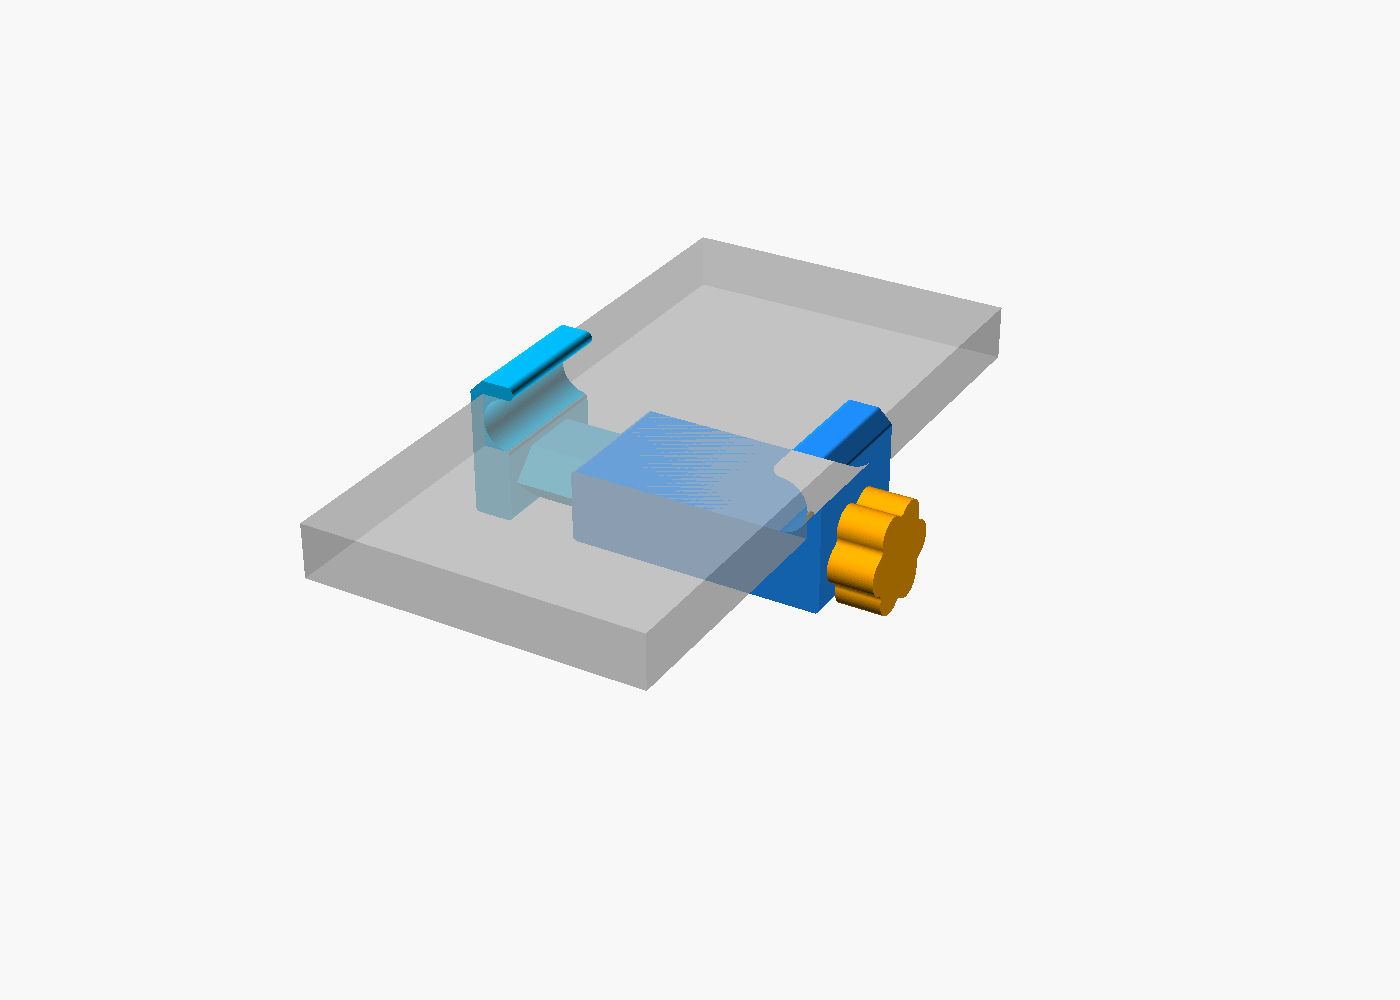
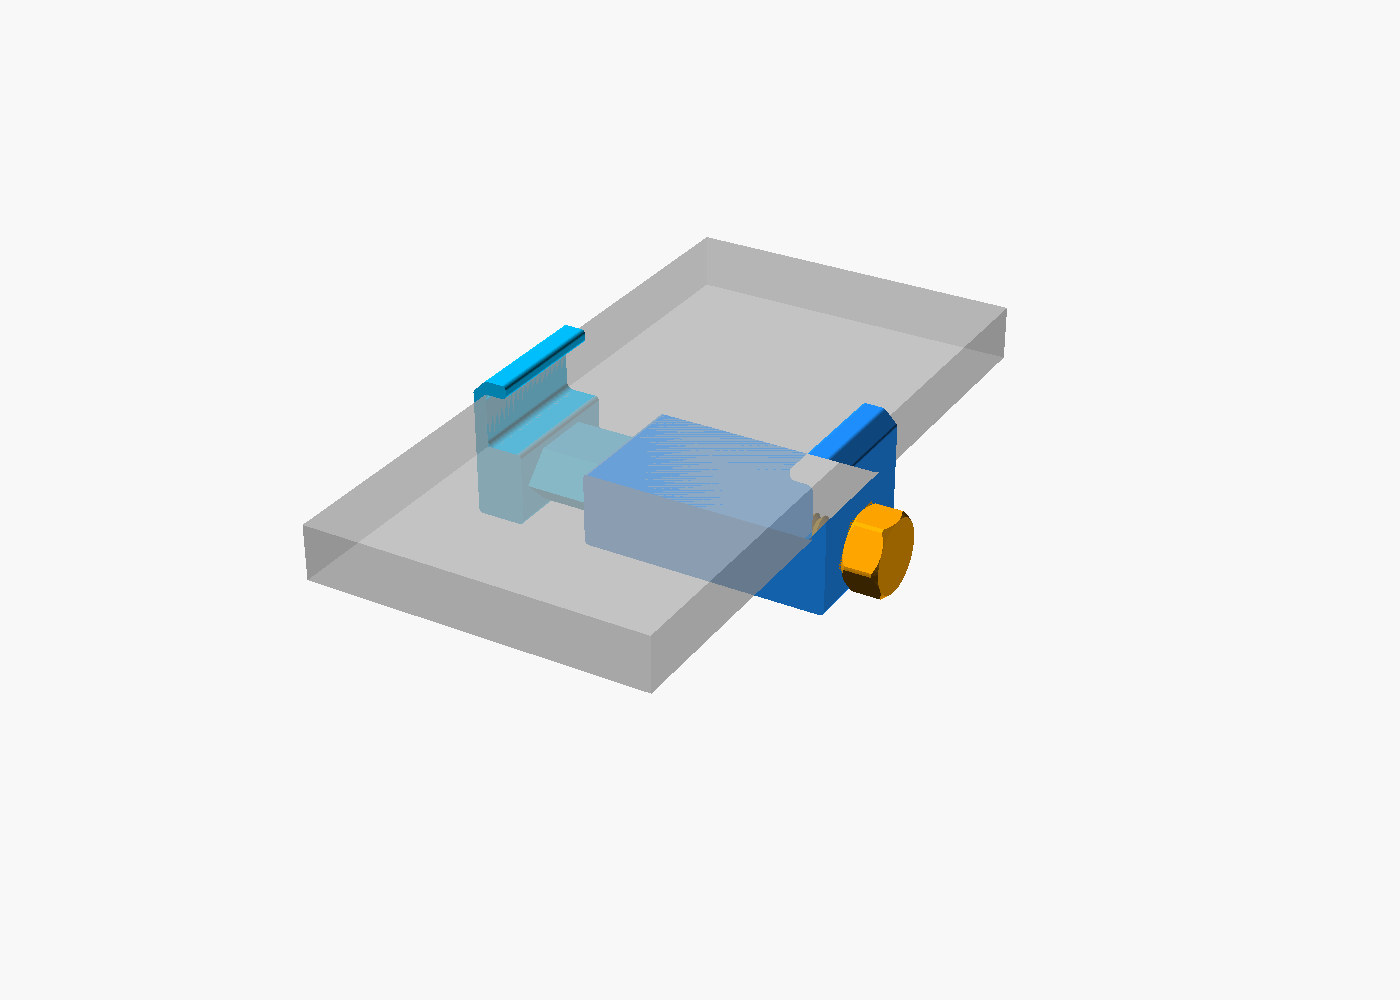
Phone holder V2: square hook cavities, lying hex head lock screw
The round hook cavities let the phone ride out; they are now square with a
flat back and a flat lip over the phone's front, with 1.5 mm fillets in the
corners (cavity_rounding). The slider's jaw block now reaches under the
phone to hold the tripod thread.

The lock screw has a hex head and prints lying on a flat with its
underside cut off, as in fdm_optimized_screws, with that project's tested
8 mm / 2 mm pitch thread.

diff --git a/projects/phone_camera_thread_holder/readme.md b/projects/phone_camera_thread_holder/readme.md
@@ -5,25 +5,27 @@ the goal is to create  a openSCAD script that can generate a phone holder that h
 ![preview](V2/preview.png)
 
 `V2/phone_camera_thread_holderV2.scad` generates a hook clamp in the style of
-`V2/inspiration`. Two brackets hook over the phone's long edges, and a star
-knob screw pulls one bracket into the other.
+`V2/inspiration`. Two brackets hook over the phone's long edges, and a screw
+pulls one bracket into the other. The hooks have a flat back and a flat lip
+over the phone's front with only small fillets in the corners
+(`cavity_rounding`, 1.5 mm), so the phone can't ride out of them.
 
 there are the following parts:
 - body: a hook with a sleeve, which has a hexagonal guide channel and an end
-  wall under the knob
+  wall under the screw head
 - slider: a hook with a guide bar that runs in the sleeve. The bar has the
   lock screw thread, and the slider's outer end has the 1/4"-20 UNC tripod
   thread.
-- lock screw: a star knob screw through the body's end wall into the bar
+- lock screw: a hex head screw through the body's end wall into the bar
 
 ## use
 
 1. Push the slider's bar into the sleeve.
 2. Put the screw through the end wall and start it in the bar.
-3. Lay the phone between the hooks and tighten the knob until both hooks grip
+3. Lay the phone between the hooks and tighten the screw until both hooks grip
    the phone's edges.
 4. Screw the slider's outer end onto the tripod. The phone then stands in
-   landscape, with the knob on top.
+   landscape, with the screw head on top.
 
 ## printing
 
@@ -33,7 +35,9 @@ Set `part = "print_layout"` to get all parts in their print orientation.
   guide's 45 degree points face up and down, so the channel needs no support.
   The horizontal holes (tripod thread, bar thread, end wall hole) have a
   45 degree roof on top so they don't sag.
-- lock screw: standing on its knob.
+- lock screw: lying on a flat of its head, with the underside of the shank and
+  head cut flat (`screw_cut`), as in `fdm_optimized_screws`. The layers then
+  run along the shank, so it doesn't snap between them.
 
 The bottom point of the guide bar hangs 2.2 mm above the bed, as in the
 inspiration. If it prints rough, deburr it so the bar slides freely.
@@ -42,8 +46,8 @@ inspiration. If it prints rough, deburr it so the bar slides freely.
 
 The defaults clamp phones from 60 to 90 mm wide and up to 12 mm thick, case
 included (`grip_min`, `grip_max`, `phone_thickness`). The guide bar, sleeve
-and screw lengths follow from these. The lock thread has a 2.5 mm pitch, so
-the whole range takes 12 turns.
+and screw lengths follow from these. The lock thread is 8 mm with a 2 mm
+pitch, as in `fdm_optimized_screws`, so the whole range takes 15 turns.
 
 ## thread fit
 
